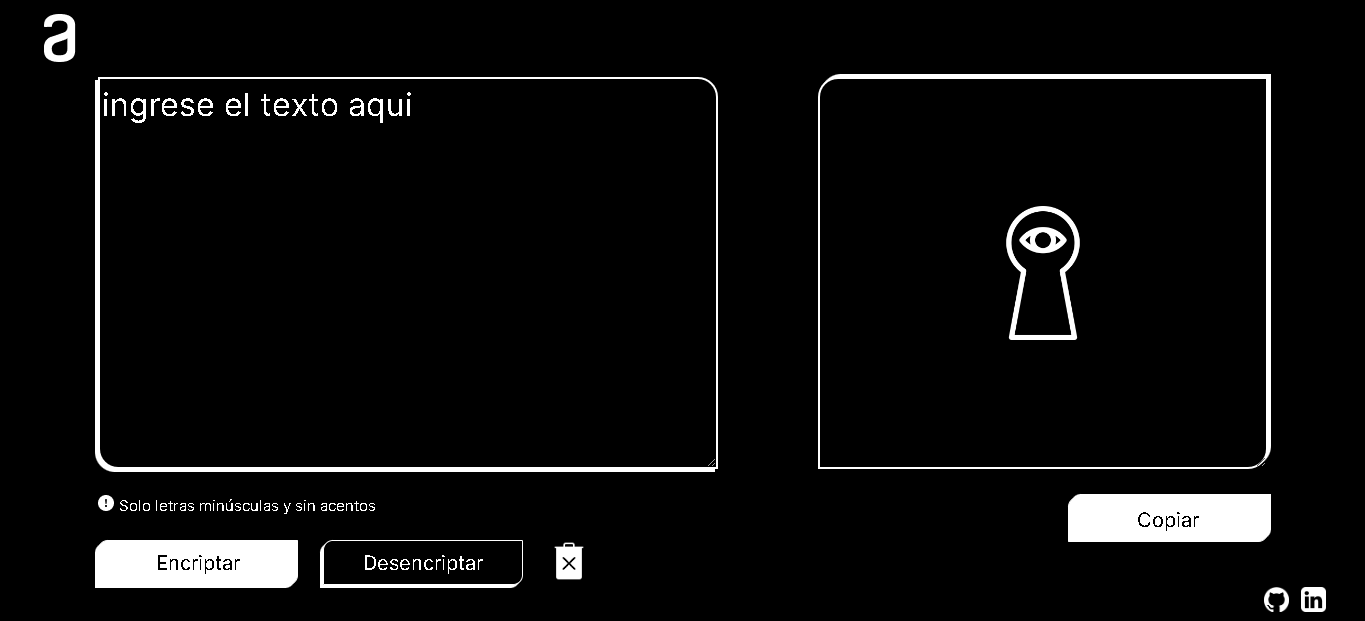
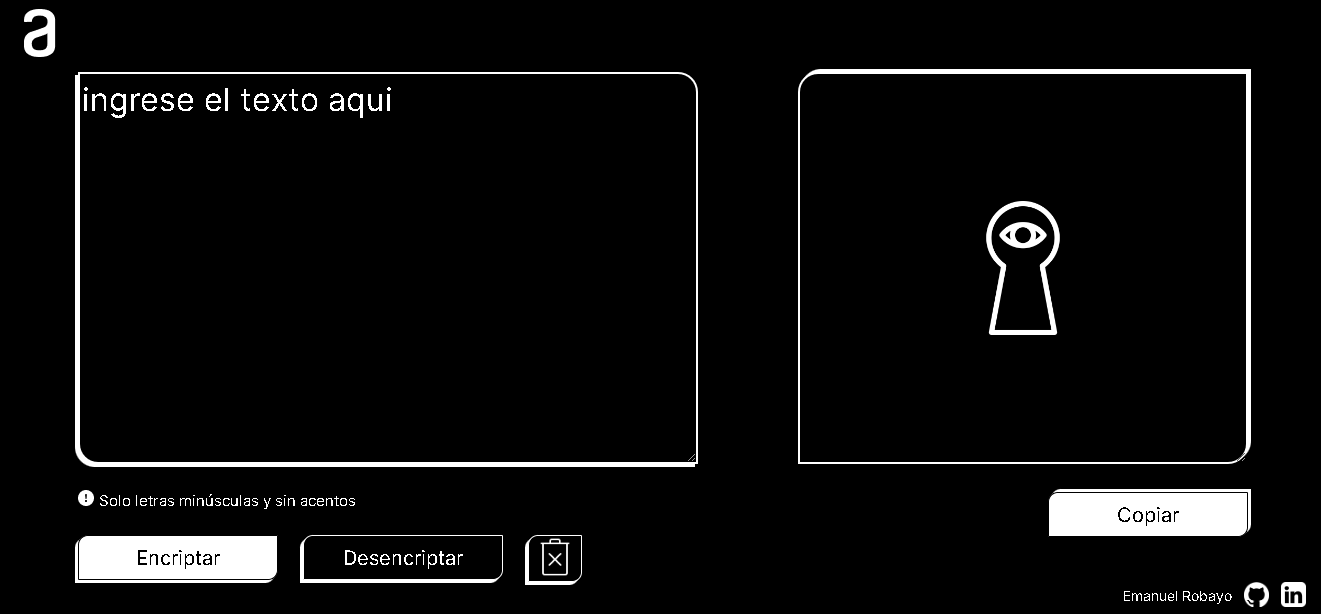
Modicando visual y footer

diff --git a/style.css b/style.css
@@ -68,6 +68,19 @@ main{
     background: #8f3838;
 }
 
+p{
+    font-family: 'Inter';
+    font-size: 14px;
+    display:flex;
+    align-items: center;
+    cursor: pointer;
+    transition: 500ms;
+}
+
+p:hover{
+    color: #af3737;
+}
+
 .botones{
     display: flex;
     margin-top: 10px;
@@ -78,7 +91,7 @@ main{
     box-shadow: -3px 3px #ffffff;
     background-color: #ffffff;
     color: black;
-    border: 1px solid #ffffff;
+    border: 1px solid black;
     border-top-left-radius: 10px;
     border-bottom-right-radius: 10px;
     font-size: 20px;
@@ -90,6 +103,13 @@ main{
 .btencriptar:hover{
         transform: scale(1.1);
         cursor: pointer;
+}
+
+.btencriptar:active{
+        transition: 50ms;
+        background-color: black;
+        color: #ffffff;
+        border-color: #ffffff;
 }
 
 .btdesencriptar{
@@ -109,15 +129,26 @@ main{
     cursor: pointer;
 }
 
+.btdesencriptar:active{
+    transition: 50ms;
+    background-color: #ffffff;
+    color: black;
+    border-color: black;
+}
+
 .imgBorrar{
     height: 40px;
+    background: none;
 }
 
 .borrar{
-    margin-left: 20px;
-    border: none;
+    margin-left: 25px;
+    border: 1px solid #ffffff;
     transition: 500ms;
     height: 47px;
+    border-top-left-radius: 10px;
+    border-bottom-right-radius: 10px;
+    box-shadow: -3px 3px #ffffff;
 }
 
 .borrar:hover{
@@ -125,11 +156,16 @@ main{
     cursor: pointer;
 }
 
+.borrar:active{
+    transition: 50ms;
+    background-color: #af3737;
+}
+
 .copiar{
     box-shadow: 3px -3px #ffffff;
     background-color: #ffffff;
     color: black;
-    border: 1px solid #ffffff;
+    border: 1px solid black;
     border-top-left-radius: 10px;
     border-bottom-right-radius: 10px;
     font-size: 20px;
@@ -144,6 +180,13 @@ main{
 .copiar:hover{
     transform: scale(1.1);
     cursor: pointer;
+}
+
+.copiar:active{
+    transition: 50ms;
+    background-color: black;
+    color: #ffffff;
+    border-color: #ffffff;
 }
 
 .informacion{
@@ -172,6 +215,7 @@ main{
     transform: scale(1.2);
 }
 
+
 @media (max-width:1154px){
     .logo{
         width: 35%;
@@ -185,10 +229,16 @@ main{
         height: 95%;
         font-size: 28px;
     }
+    .informacion{
+        font-size: 55%;
+    }
+    p{
+        font-size: 23%;
+    }
     .botones, .informacion, .copiar{
         margin-left: 10%;
         margin: 5%;
-        width: 95%;
+        width: 92%;
     }
     .piePagina{
         justify-content: center;

diff --git a/index.html b/index.html
@@ -3,8 +3,9 @@
 <html lang="es">
 
 <head>
-    <meta name="viewport" content="width=device-width initial-scale=1,0">
+    <meta name="viewport" content="width=device-width, initial-scale=1.0">
     <meta charset="UTF-8">
+    <link rel="shortcut icon" href="imagenes/eye4.png">
     <link rel="stylesheet" href="reset.css">
     <link rel="stylesheet" href="style.css">
     <link rel="preconnect" href="https://fonts.googleapis.com">
@@ -38,6 +39,7 @@
     </main>
 
     <footer class="piePagina">
+        <p>Emanuel Robayo</p>
         <a href="https://github.com/BiltFired" target="_blank"><img src="logos/github.png" class="icon" alt="Github"></a>
         <a href="https://www.linkedin.com/in/emanuel-robayo-florez/" target="_blank"><img src="logos/linkedin.png" class="icon" alt="linkedin"></a>
     </footer>
